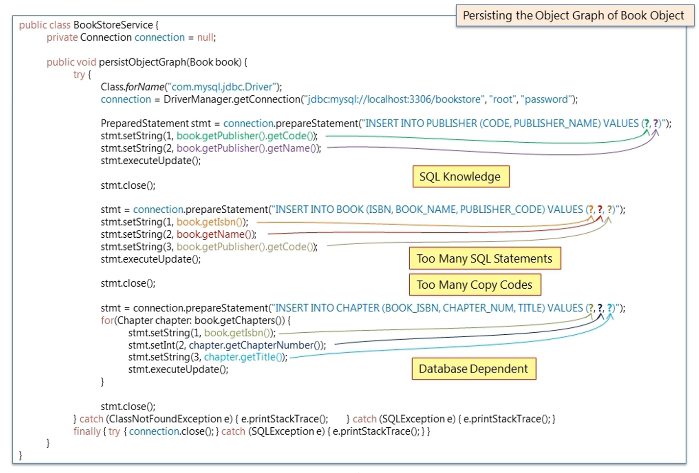
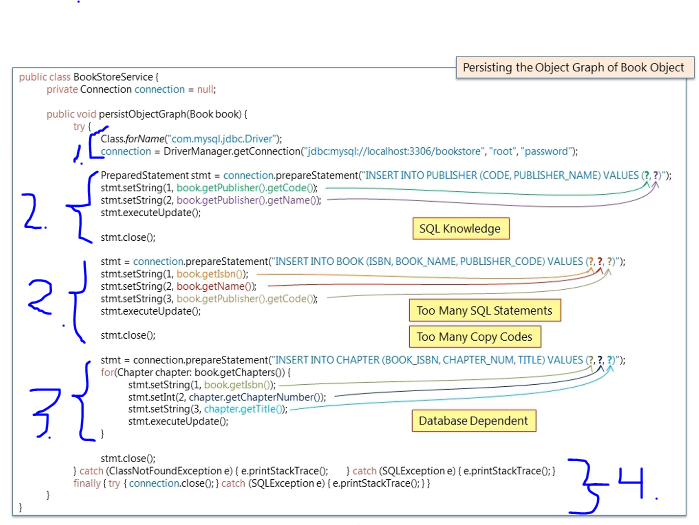
proceeded

diff --git a/Java Persistence Hibernate and JPA Fundamentals/Section 02/README.md b/Java Persistence Hibernate and JPA Fundamentals/Section 02/README.md
@@ -149,3 +149,105 @@ Understanding object/relational persistence.
 4. Result of **persisting** will be following in the database.
 
 <img src="bookStoreService.PNG" alt="alt text" width="600"/>
+
+1. We load the driver and make connection.
+2. Then we create `PreparedStatement` and load the **PreparedStatement** with query and data, then execute to the database. In the end we call **close** for releasing resources made from `PreparedStatment`.
+3. We do this same with all **Chapter** objects.
+4. We wrap this around `try-catch` for closing the connection when we don't need it.  
+
+- This approach brings ❌ **negatives** ❌:
+    - If we are a java developer, we need to know SQL ❌ **SQL Knowledge** ❌.
+    - For simple task of **persisting**, we are writing pretty much code ❌ **Too Many SQL Statements** ❌.
+        - Think if the book object would be **complex**.
+    - Book details need to be copied to `PreparedStatement` one more time. ❌ **Too Many Copy Codes** ❌.
+    - SQL code is dependent to the **MySQL system**. ❌ **Database Dependent** ❌.
+
+<img src="clientGetBOok.PNG" alt="alt text" width="500"/>
+
+1. Printing will be looking, when printing Book object.
+
+<img src="bookStoreServiceSecond.PNG" alt="alt text" width="600"/>
+
+1. Reads from two different tables.
+2. We get following **ResultSet** from database.
+3. Then we manually associate data from result set to the `Book` and `Publisher`.  
+4. Then we query and **assosiate** `Chapters` with the `Book` Object.
+
+- Same problems as previously and as extra.
+    - We are manually association with the Object. ❌ **Manually Handled Associations** ❌.
+        - This is fairly simple, but when it **gets bigger** and **complex!** 
+
+> **ResultSet** represents the result of a query executed on a database using **JDBC** in **Java**.
+
+- Example codes before:
+
+```
+public class BookStoreService {
+    private Connection connection = null;
+
+    public Book retrieveObjectGraph(String isbn) {
+        Book book = null;
+        try {
+            Class.forName("com.mysql.jdbc.Driver");
+            connection = DriverManager.getConnection("jdbc:mysql://localhost:3306/bookstore", "root", "password");
+
+            PreparedStatement stmt = connection.prepareStatement(
+                "SELECT * FROM BOOK, PUBLISHER WHERE BOOK.PUBLISHER_CODE = PUBLISHER.CODE AND BOOK.ISBN = ?");
+            stmt.setString(1, isbn);
+            ResultSet rs = stmt.executeQuery();
+
+            book = new Book();
+            if (rs.next()) {
+                book.setIsbn(rs.getString("ISBN"));
+                book.setName(rs.getString("BOOK_NAME"));
+
+                Publisher publisher = new Publisher();
+                publisher.setCode(rs.getString("CODE"));
+                publisher.setName(rs.getString("PUBLISHER_NAME"));
+                book.setPublisher(publisher);
+            }
+
+            rs.close();
+            stmt.close();
+
+            List<Chapter> chapters = new ArrayList<Chapter>();
+            stmt = connection.prepareStatement("SELECT * FROM CHAPTER WHERE BOOK_ISBN = ?");
+            stmt.setString(1, isbn);
+            rs = stmt.executeQuery();
+
+            while (rs.next()) {
+                Chapter chapter = new Chapter();
+                chapter.setTitle(rs.getString("TITLE"));
+                chapter.setChapterNumber(rs.getInt("CHAPTER_NUM"));
+                chapters.add(chapter);
+            }
+
+            book.setChapters(chapters);
+
+            rs.close();
+            stmt.close();
+        } catch (ClassNotFoundException e) {
+            e.printStackTrace();
+        } catch (SQLException e) {
+            e.printStackTrace();
+        } finally {
+            try { connection.close(); } catch (SQLException e) { e.printStackTrace(); }
+        }
+        return book;
+    }
+}
+```
+
+<img src="problemsOfMismatchBetweenObjectModelAndRelationalModel.PNG" alt="alt text" width="600"/>
+
+1. These problems presented here could be solved by using **ORM**.
+
+<img src="ormMapping.PNG" alt="alt text" width="600"/>
+
+- This will be done with following associations.
+
+<img src="ormSave.PNG" alt="alt text" width="600"/>
+
+1. Now saving can be done by calling `save(book)` and Java Object with required associations. Getting Book`.get(identifier of book)`. No need to write **SQL** or **JDSBC** codes.
+
+# 4. Installing MySQL.
